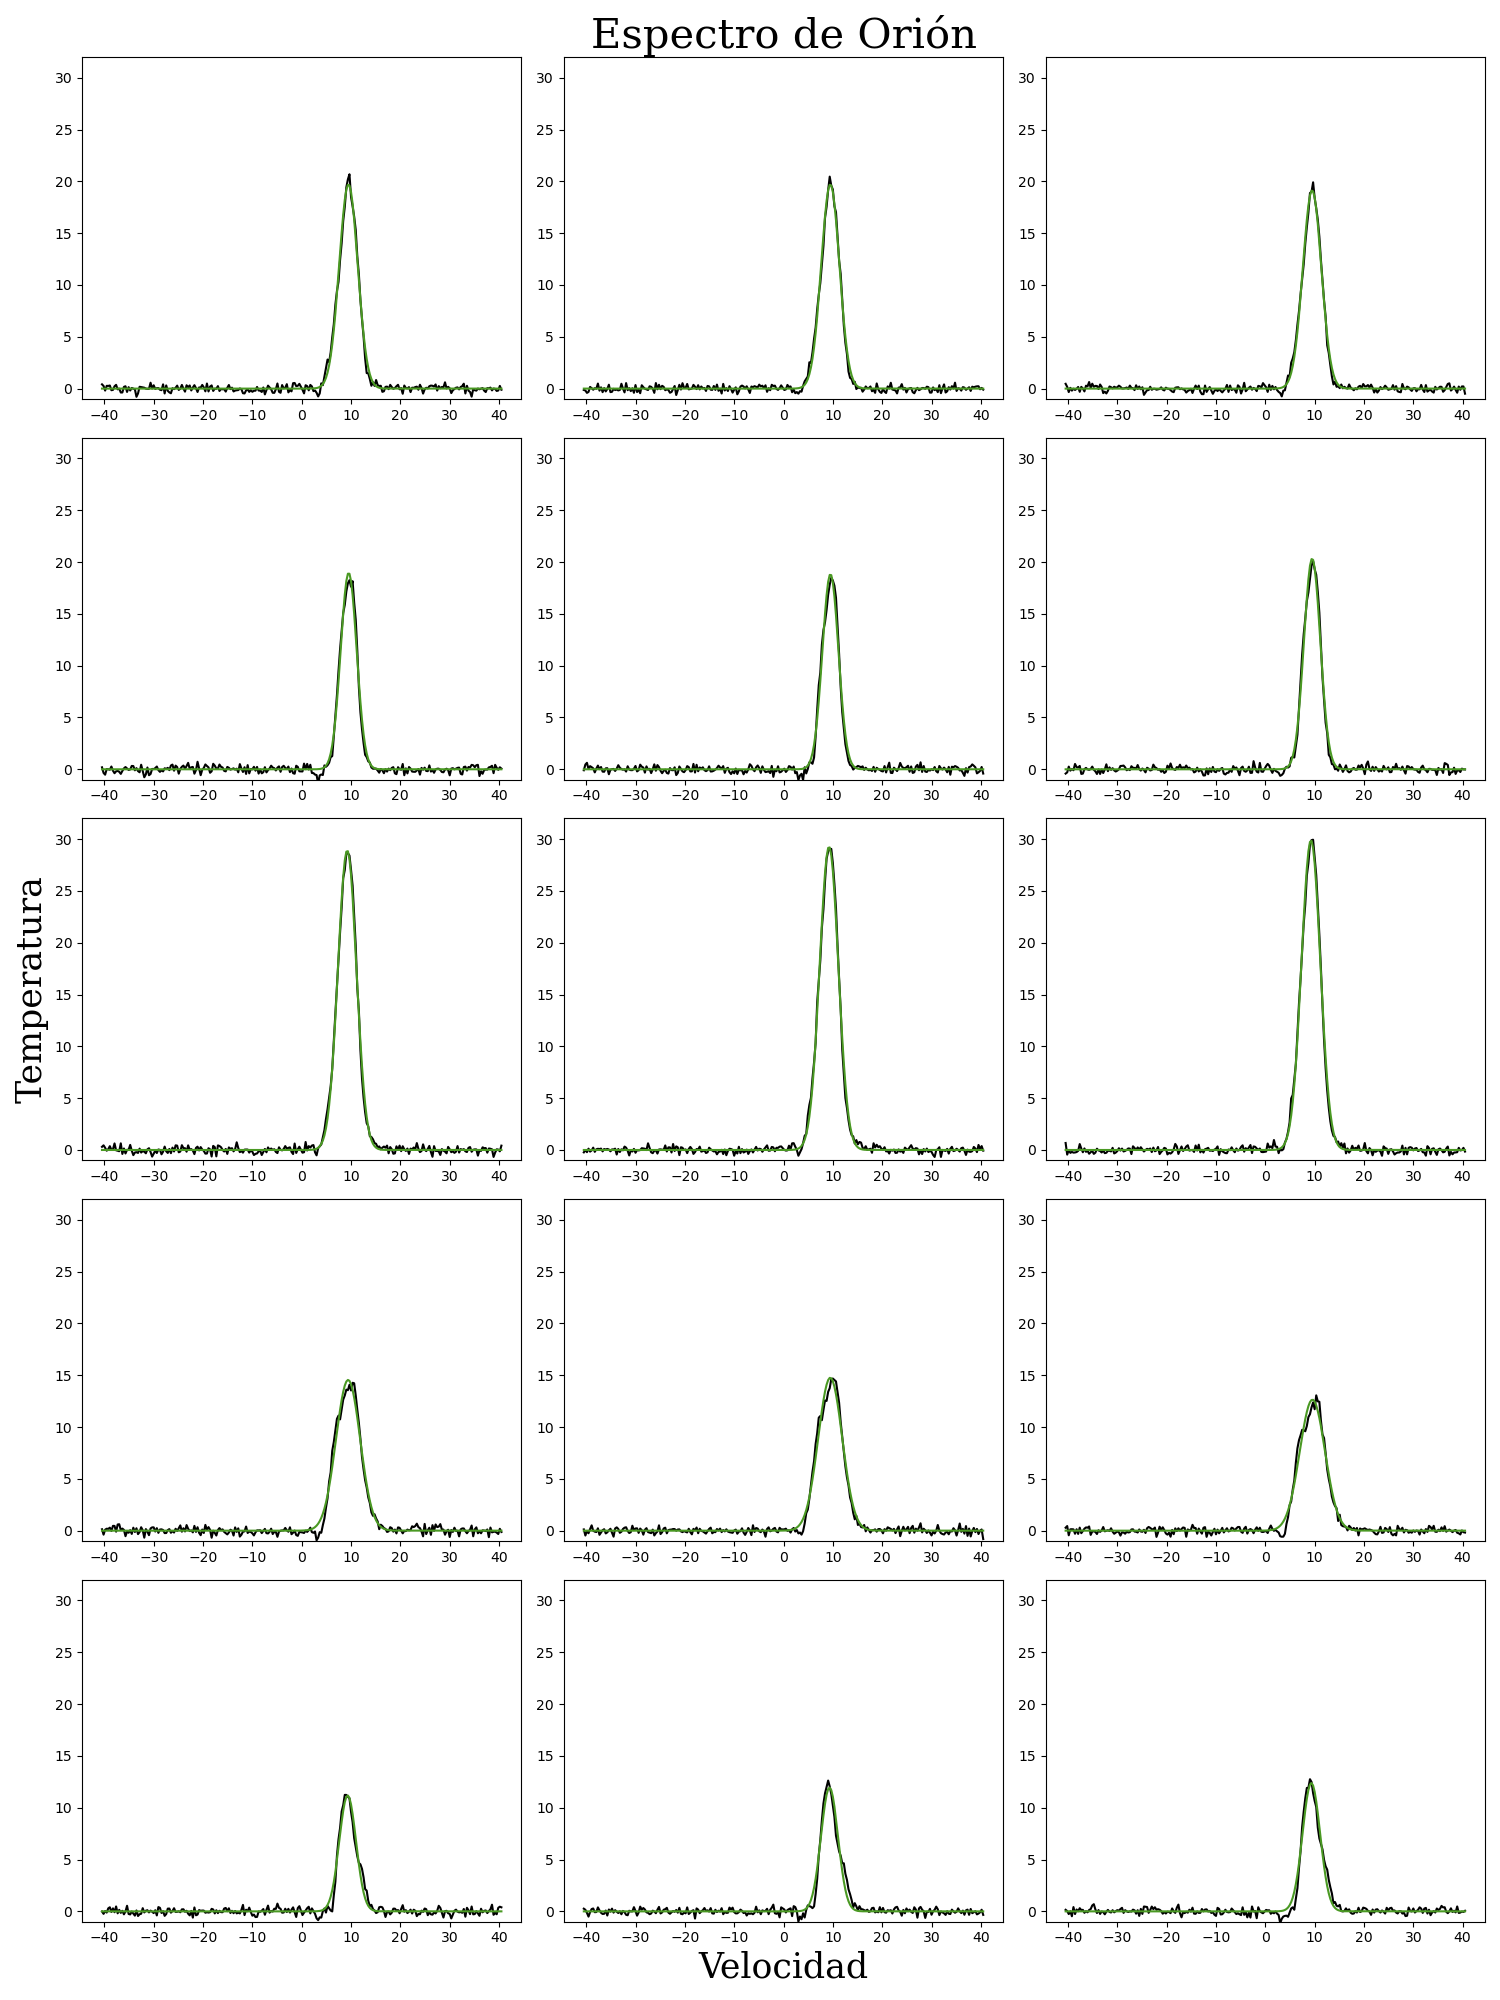
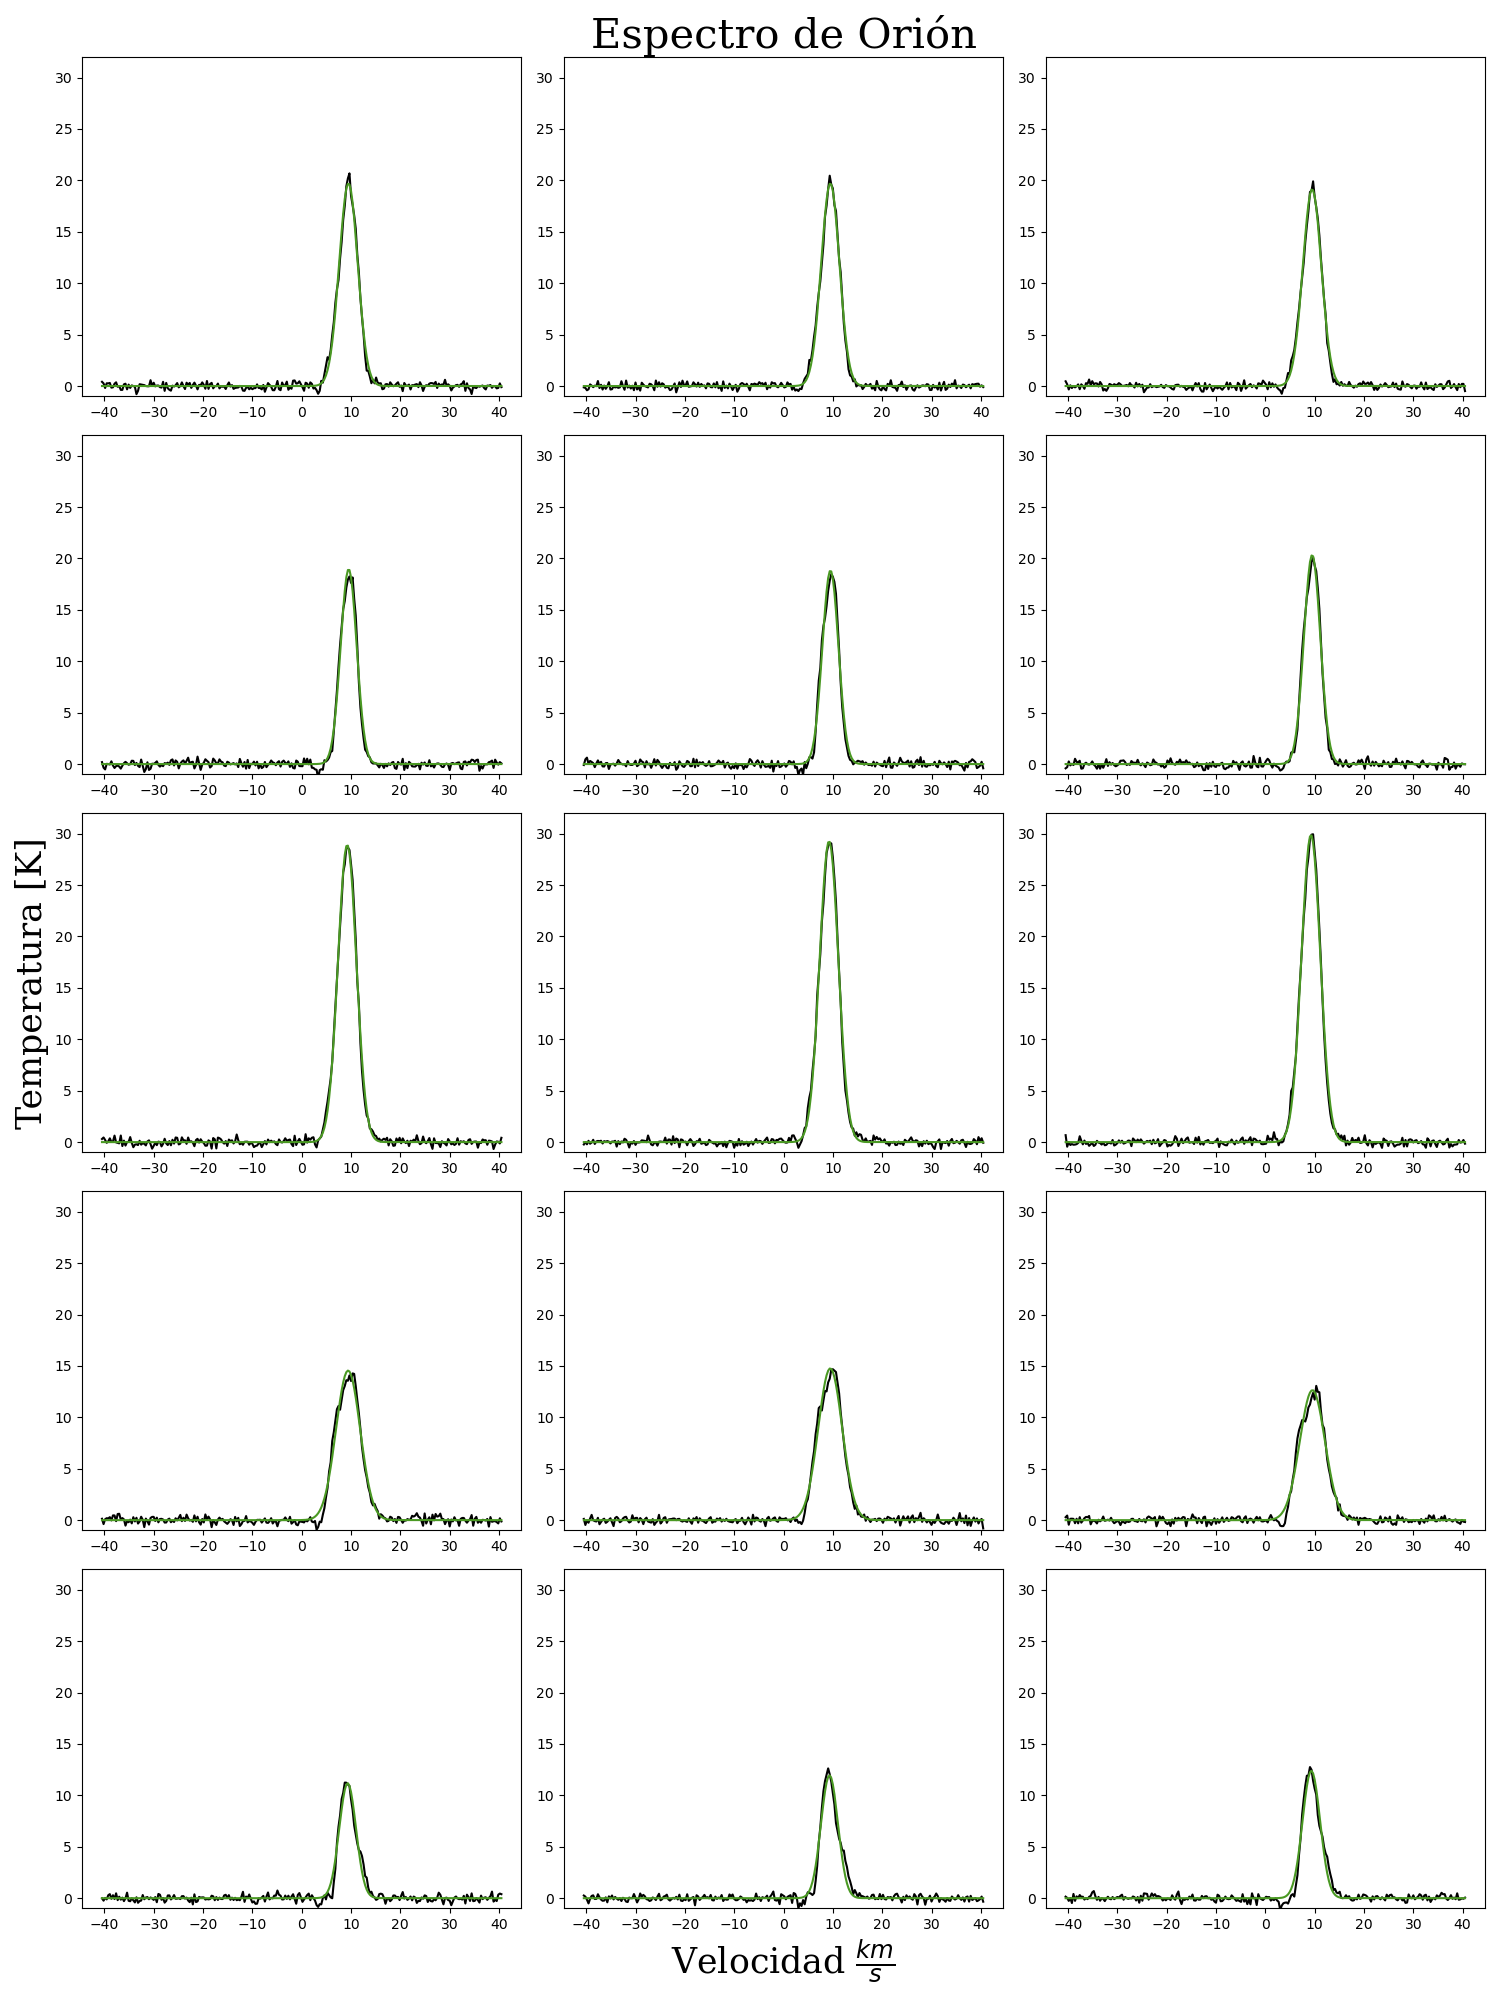
Update P3
Se añade el fiteo de las temperaturas máximas

diff --git a/Tareas/Tarea1.py b/Tareas/Tarea1.py
@@ -3,7 +3,7 @@ import matplotlib.pyplot as plt
 import pandas as pd
 from scipy.optimize import curve_fit
 import glob
-from scipy.integrate import trapz
+from scipy.integrate import trapz, simps
 from matplotlib.font_manager import FontProperties
 
 df_HCT = pd.read_excel('/Users/javier/Documents/University/5th semester/Experimental astronomy/'
@@ -29,7 +29,6 @@ T_cold = df_HCT.iloc[3, 4]
 Y = dBm_to_Watts(float(df_HCT.iloc[2, 1]))/dBm_to_Watts(float(df_HCT.iloc[3, 1]))
 
 T_rec_exp = T_rec(T_hot, T_cold, Y)
-print('El valor de $T_{REC}$ es:', T_rec_exp)
 
 
 """
@@ -85,6 +84,7 @@ fig2, ax2 = plt.subplots(5, 3, figsize=(15,20))
 # temperatura máxima y coordenadas galácticas
 
 T_maxs=[]
+T_integrada = []
 
 # Para colocar los gráficos en la figura 2 se definen las position_i que indica
 # la columna en la que se colocará para su fila correspondiente
@@ -159,9 +159,65 @@ for i in range(11, 26):
     else:  # por si algo sale mal
         None
 
+    T_integrada_i = trapz(T)
+    T_integrada.append(('sdf_1'+str(i), T_integrada_i, lii, bii))
+
 # Se guarda el plot final con todos los subplots
 ax2[0,1].set_title('Espectro de Orión', fontsize=30, fontproperties=font)
-ax2[2,0].set_ylabel('Temperatura', fontsize=25, fontproperties=font)
-ax2[4,1].set_xlabel('Velocidad', fontsize=25, fontproperties=font)
+ax2[2,0].set_ylabel('Temperatura [K]', fontsize=25, fontproperties=font)
+ax2[4,1].set_xlabel(r'Velocidad $\frac{km}{s}$', fontsize=25, fontproperties=font)
 fig2.tight_layout()    
 fig2.savefig("Espectros")
+
+#print('La temperatura integrada es:', T_integrada)
+print('Las temperaturas máximas son:', T_maxs)
+T_max_208 = np.zeros((3,2))
+T_max_208[0, 0]=-19.510527
+T_max_208[1, 0]=-19.385527
+T_max_208[2, 0]=-19.260527
+
+for i in range(0, 15):
+    if T_maxs[i][2]==208.996002:
+        if T_maxs[i][3]==-19.510527:
+            T_max_208[0, 1]+=T_maxs[i][1]
+        elif T_maxs[i][3]==-19.385527:
+            T_max_208[1, 1]+=T_maxs[i][1]
+        elif T_maxs[i][3]==-19.260527:
+            T_max_208[2, 1]+=T_maxs[i][1]
+
+T_max_19 = np.zeros((3,2))
+T_max_19[0, 0]=208.863495
+T_max_19[1, 0]=208.996002
+T_max_19[2, 0]=209.12851
+
+
+for i in range(0, 15):
+    if T_maxs[i][3]==-19.385527:
+        if T_maxs[i][2]==208.863495:
+            T_max_19[0, 1]+=T_maxs[i][1]
+        elif T_maxs[i][2]==208.996002:
+            T_max_19[1, 1]+=T_maxs[i][1]
+        elif T_maxs[i][2]==209.12851:
+            T_max_19[2, 1]+=T_maxs[i][1]
+
+#print('Temperaturas maximas promedio', T_max_208[:,1]/3)
+#print('Temperaturas maximas promedio', T_max_19[:,1]/3)
+#print(T_max_208)
+
+fg_208 = [np.max(T_max_208[:,1]/3), -19, 1]  #first guess
+coefs_208, cov_208 = curve_fit(f_gauss,T_max_208[:,0], T_max_208[:,1]/3, p0=fg_208)
+t0_208, M_208, S_208 = coefs_208[0],coefs_208[1],coefs_208[2]
+
+fg_19 = [np.max(T_max_19[:,1]/3), 208.99, 1]  #first guess
+coefs_19, cov_19 = curve_fit(f_gauss,T_max_19[:,0], T_max_19[:,1]/3, p0=fg_19)
+t0_19, M_19, S_19 = coefs_19[0],coefs_19[1],coefs_19[2]
+
+fig3, ax3 = plt.subplots(2, 1, figsize=(3.5, 6.5))
+ax3[0].scatter(T_max_208[:,0], T_max_208[:,1]/3, color='black', label='lii=208')
+ax3[0].plot(np.linspace(-19.510527, -19.260527, 20), f_gauss(np.linspace(-19.510527, -19.260527, 20), t0_208, M_208, S_208), color='#4a9923')
+ax3[1].scatter(T_max_19[:,0], T_max_19[:,1]/3, color='black', label='bii=-19')
+ax3[1].plot(np.linspace(208.863495, 209.12851, 20), f_gauss(np.linspace(208.863495, 209.12851, 20), t0_19, M_19, S_19), color='#4a9923')
+ax3[0].legend()
+ax3[1].legend()
+fig3.tight_layout()    
+fig3.savefig("Fit_temperaturas_maxs")
